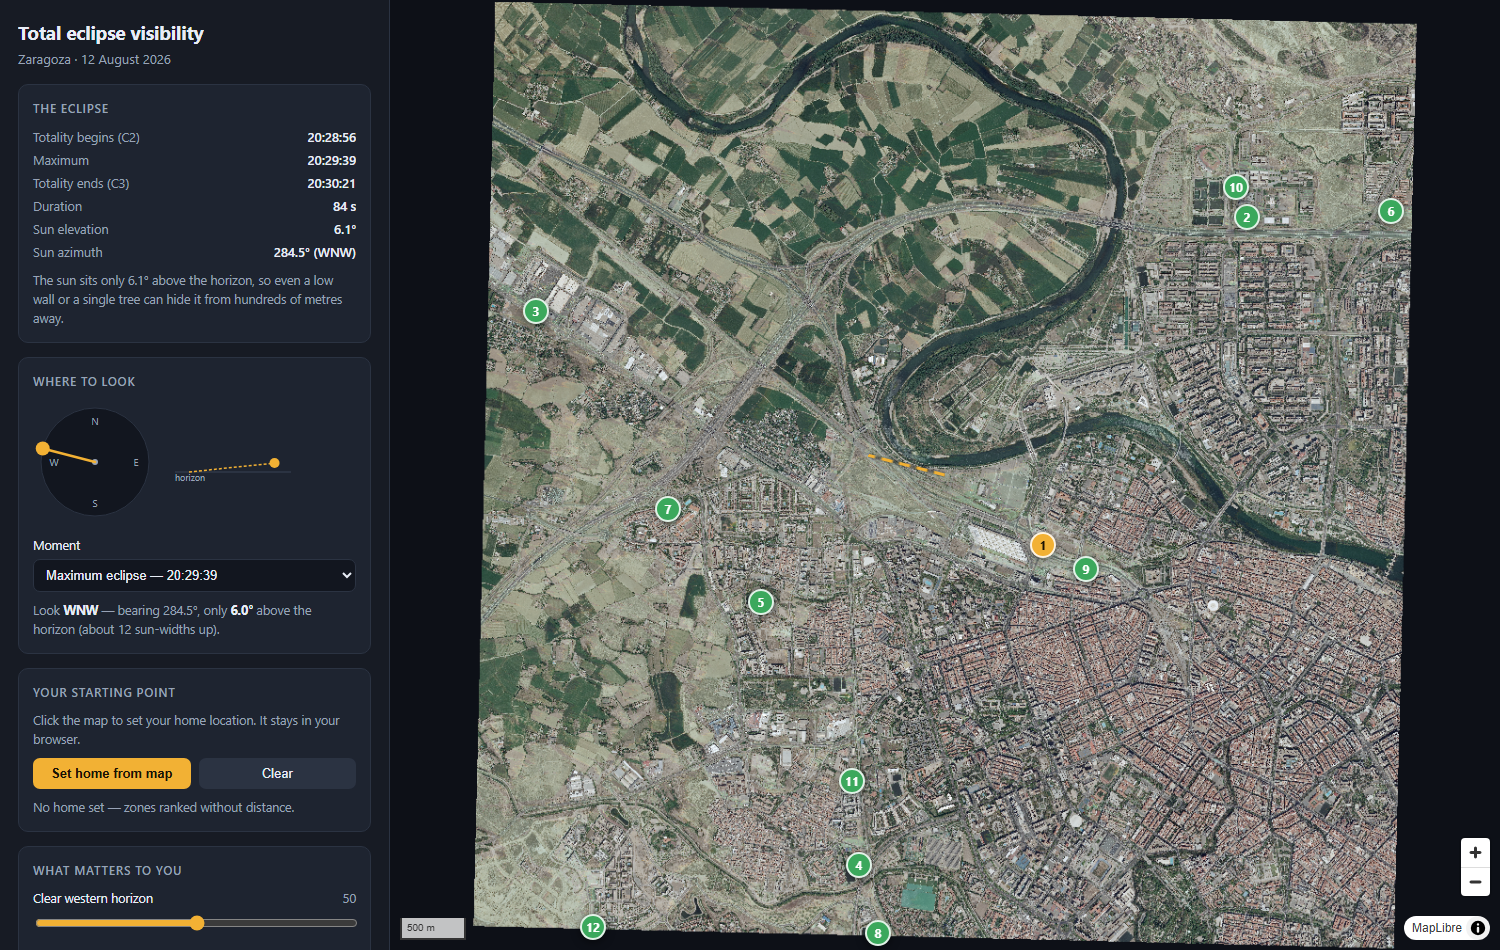
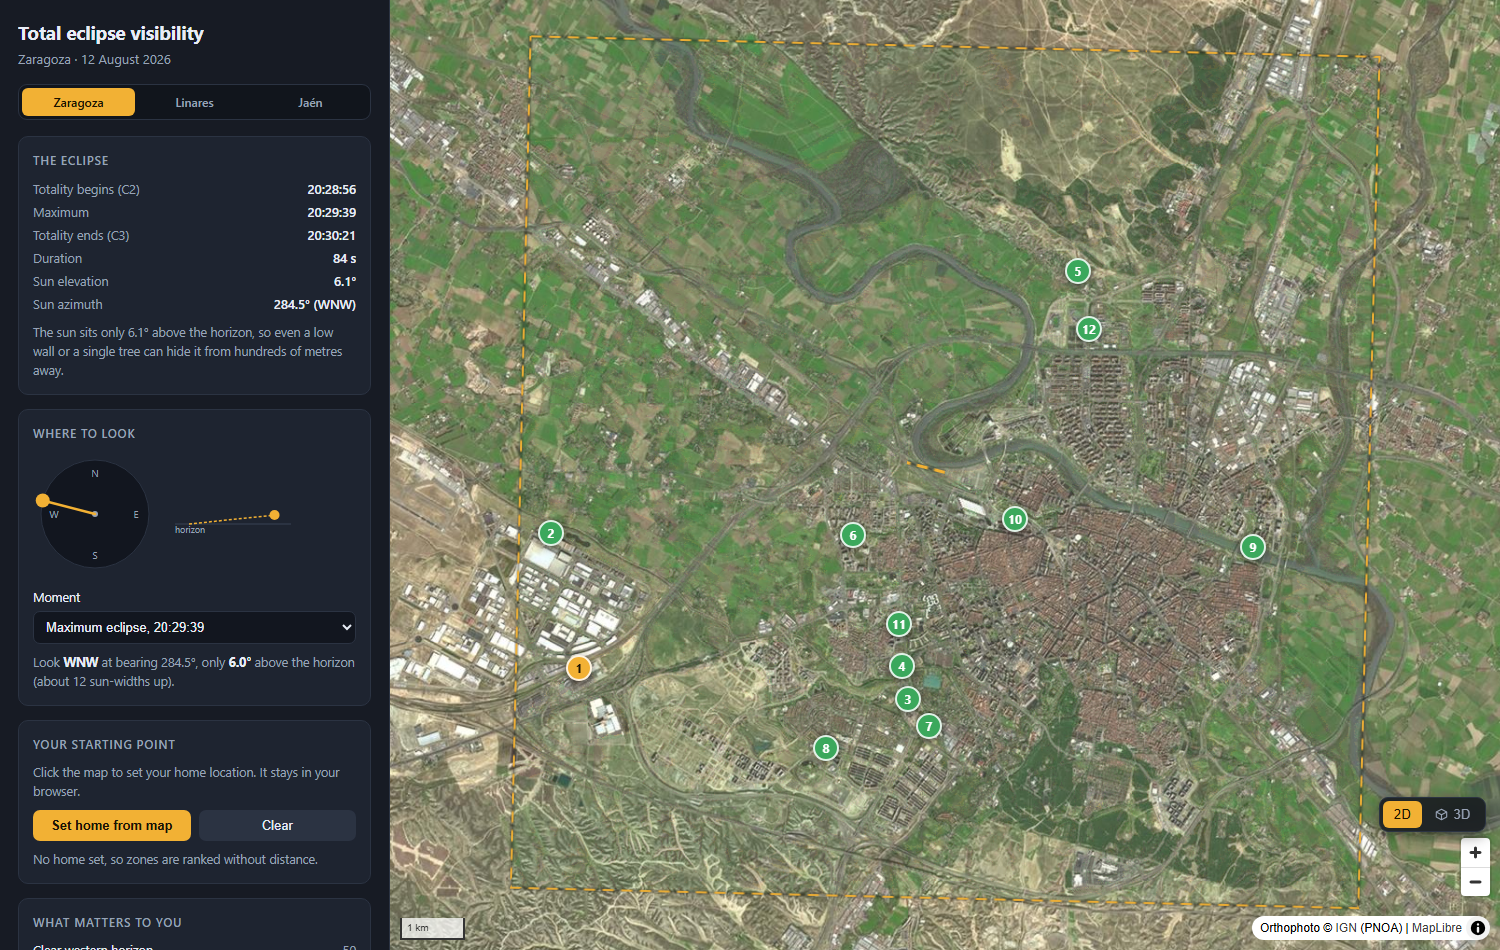
Rewrite the README for three cities and refresh the overview figure
The README still described a single city over a 7 x 7 km block, which stopped
being true when Zaragoza was recomputed at 13 x 13 km and Linares and Jaén were
added. It now leads with all three, says which one actually sees totality, and
carries a table of block size, eclipse and zone count.

Corrected along the way, all checked against the generated data rather than
edited by eye: the evaluated-ground figure was "~81% of the block" and is now
95% in Zaragoza and 99% in Jaén; data sources claimed 49 tiles and 388 M points,
which was the original small block rather than the 379 tiles and 3.29 billion
points across the three cities; and the coverage section still quoted the old
LiDAR extents. Also dropped the last "Máxima Actualidad" the earlier pass
missed.

docs/overview.png was from 29 July, before the 3D buildings, the access tier,
the city picker and the 13 x 13 km rebuild. The new capture frames the whole
block so the dashed analysed-area outline, the clearance shading and the ranked
zones are all visible at once. My first attempt framed the city centre, where
dense building means almost everything is blocked and the shading reads as
nothing at all.

diff --git a/README.md b/README.md
@@ -9,21 +9,31 @@
 >
 > Treat the map as a shortlist to go and inspect, not a guarantee.
 
-# Zaragoza urban eclipse visibility
+# Where to stand for the eclipse of 12 August 2026
 
-Where in Zaragoza can you actually see the total eclipse of 12 August 2026?
+Three Spanish cities are mapped street by street: **Zaragoza**, which sees 84 seconds of
+totality, and **Linares** and **Jaén**, which sit just outside the path and reach 97.2%
+and 96.6% obscuration.
 
 **[Open the map](https://alfonsolrz.github.io/eclipse-zaragoza-2026/)**
 
-At maximum the sun sits only 6.1° above the horizon at azimuth 284.5° (WNW), so a single
+At maximum the sun sits only 6° above the horizon at azimuth 284.5° (WNW), so a single
 tree or a two-storey wall can hide it from hundreds of metres away. Coarse terrain shadow
 maps cannot answer this; the question is decided by buildings and vegetation.
 
-This project answers it by ray-scanning a 1 m LiDAR surface model over a 7 × 7 km block of
-the city, then publishing the result as a web map over PNOA orthophotography. It ranks
-places you can actually stand: parks, squares, gardens and other open public space.
+Each city is answered by ray-scanning a 1 m LiDAR surface model over its own block, then
+publishing the result as a web map over aerial imagery. The maps rank places you can
+actually stand: parks, squares, gardens and other open public space, with a separate tier
+for open ground whose access nobody has verified.
 
-![overview](docs/overview.png)
+| | Block | Eclipse | Candidate zones |
+|---|---|---|---|
+| Zaragoza | 13 × 13 km | total, 84 s | 263 |
+| Jaén | 15 × 12 km | 96.6% partial | 215 |
+| Linares | 6 × 5 km | 97.2% partial | 208 |
+
+![The Zaragoza map: the analysed block outlined in dashed amber, clearance shading over
+the evaluated ground, and the ranked candidate zones](docs/overview.png)
 
 ## Why this is hard
 
@@ -46,19 +56,25 @@ above is drawn steeper than the real 6.1°, which would be too shallow to read.
 
 ## Reading the map
 
+Pick a city from the switcher under the title. Each is a plain URL, so a map can be
+bookmarked or shared: `?city=zaragoza`, `?city=linares`, `?city=jaen`.
+
 The viewer shows the sun's direction as a compass dial plus a side profile of its altitude,
 and draws a 600 m dashed ray from any clicked point or selected zone. That ray is the line
-that has to stay clear of buildings and trees. The moment selector switches between C1, C2,
-maximum, C3 and C4.
+that has to stay clear of buildings and trees. In Zaragoza the moment selector switches
+between C1, C2, maximum, C3 and C4; the two partial cities have no C2 or C3, so those
+moments are simply absent.
 
 Five colour scales cover the same data: clearance classes, viridis, red to green, a plain
-visible/blocked split, and a shadow-only grey. The orthophoto, an OpenStreetMap name
-overlay and the dashed analysed-area outline can each be toggled independently, so the
-shadow model can be read on its own or against street names.
+visible/blocked split, and a shadow-only grey. The imagery, an OpenStreetMap name overlay
+and the dashed analysed-area outline can each be toggled independently, so the shadow model
+can be read on its own or against street names. The 3D control in the bottom right stands
+the buildings up at their measured heights.
 
-The overlay covers all evaluated ground (~81% of the block; the rest is building rooftops).
-Reachable public space is drawn solid and everything else at 45% opacity, so the shadow
-model is legible citywide while the places actually worth standing in still stand out.
+The overlay covers all evaluated ground, which is 95% of the block in Zaragoza and 99% in
+Jaén; most of the remainder is building rooftops. Reachable public space is drawn solid and
+everything else at 45% opacity, so the shadow model is legible citywide while the places
+actually worth standing in still stand out.
 
 ### Clearance classes
 
@@ -82,14 +98,13 @@ years of tree growth, or a van parked in the wrong place, flips the answer.
 
 ## Coverage and the analysed area
 
-The PNOA orthophoto mosaic (664.5 to 692.9 km E) is far larger than the LiDAR block
-(670 to 677 km E, 4611 to 4618 km N), so imagery alone says nothing about where the
-analysis holds.
+Aerial imagery covers the whole country, so it says nothing about where the analysis
+actually holds. Only the LiDAR block has been scanned, and it is much smaller.
 
-The map pulls PNOA Máxima Actualidad imagery live from the
-[IGN WMTS](https://www.ign.es/wmts/pnoa-ma) and draws the LiDAR footprint as a dashed
-outline. Imagery continues past the block, so that dashed edge is what marks where
-visibility was computed. Outside it the picture is real but nothing has been analysed.
+The map pulls PNOA imagery live from the [IGN WMTS](https://www.ign.es/wmts/pnoa-ma) and
+draws each city's LiDAR footprint as a dashed outline. Imagery continues past the block, so
+that dashed edge is what marks where visibility was computed. Outside it the picture is
+real but nothing has been analysed.
 
 The WMTS serves current imagery, which may be newer than the LiDAR and newer than the
 2025-07-14 mosaic the offline analysis was run against. If the photo shows a building the
@@ -123,8 +138,10 @@ shadow model does not seem to know about, trust the photo.
 
 ## Data sources
 
-- PNOA LiDAR 2023 (NPC02), 49 tiles, ~8 pts/m², 388 M points.
-- PNOA Máxima Actualidad orthophotography, mosaic dated 2025-07-14, 0.25 m.
+- PNOA LiDAR: 2023 Aragón (NPC02) for Zaragoza, 2024 Andalucía (NPC01) for Jaén and
+  Linares. 379 tiles and 3.29 billion points across the three cities.
+- PNOA aerial orthophotography, served live by the IGN. The offline analysis was run
+  against a mosaic dated 2025-07-14 at 0.25 m.
 - CNIG eclipse rasters (`10bands_2026_3857_COG.tiff`) for contact times and sun geometry.
 
 Bands 1 to 2 and 6 to 10 of the eclipse raster were cross-checked against the
